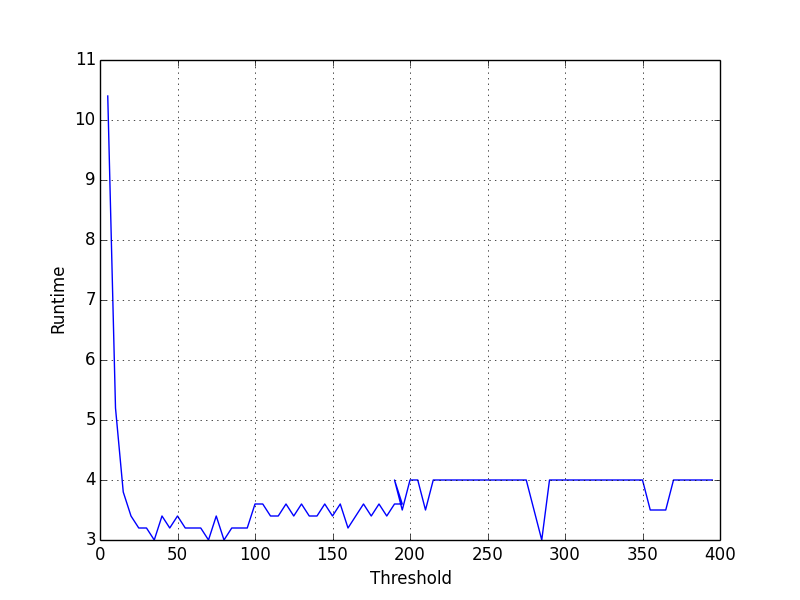
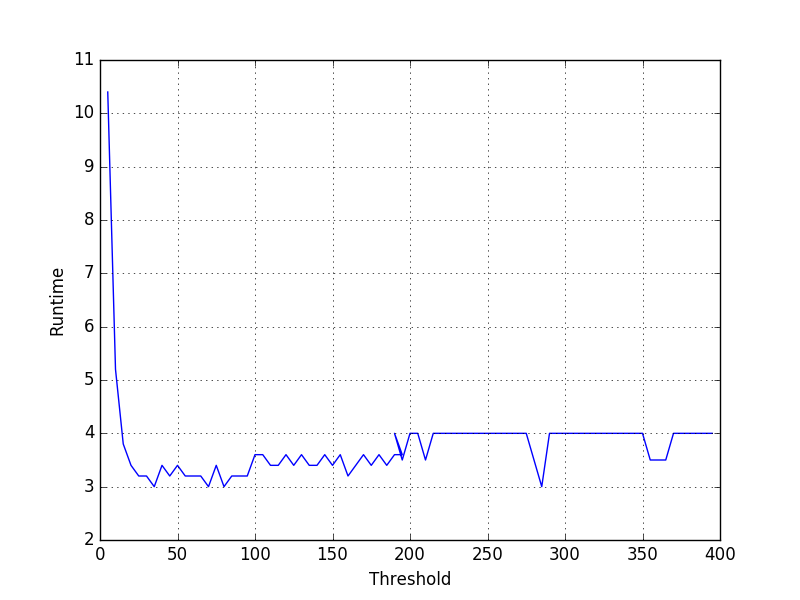
Redrew graphs

diff --git a/prog2/data/plot.py b/prog2/data/plot.py
@@ -1,7 +1,7 @@
 import matplotlib.pyplot as plt
 import csv
 
-dim = 1000
+dim = 600
 
 filename = "T005-195/d%i.csv" % (dim)
 
@@ -31,7 +31,7 @@ plt.plot(threshold, runtime)
 
 
 # plt.legend(loc='right')
-# plt.ylim((0,.20))
+plt.ylim((9,17))
 # plt.xlim((0,12))
 plt.xlabel('Threshold')
 plt.ylabel('Runtime')
